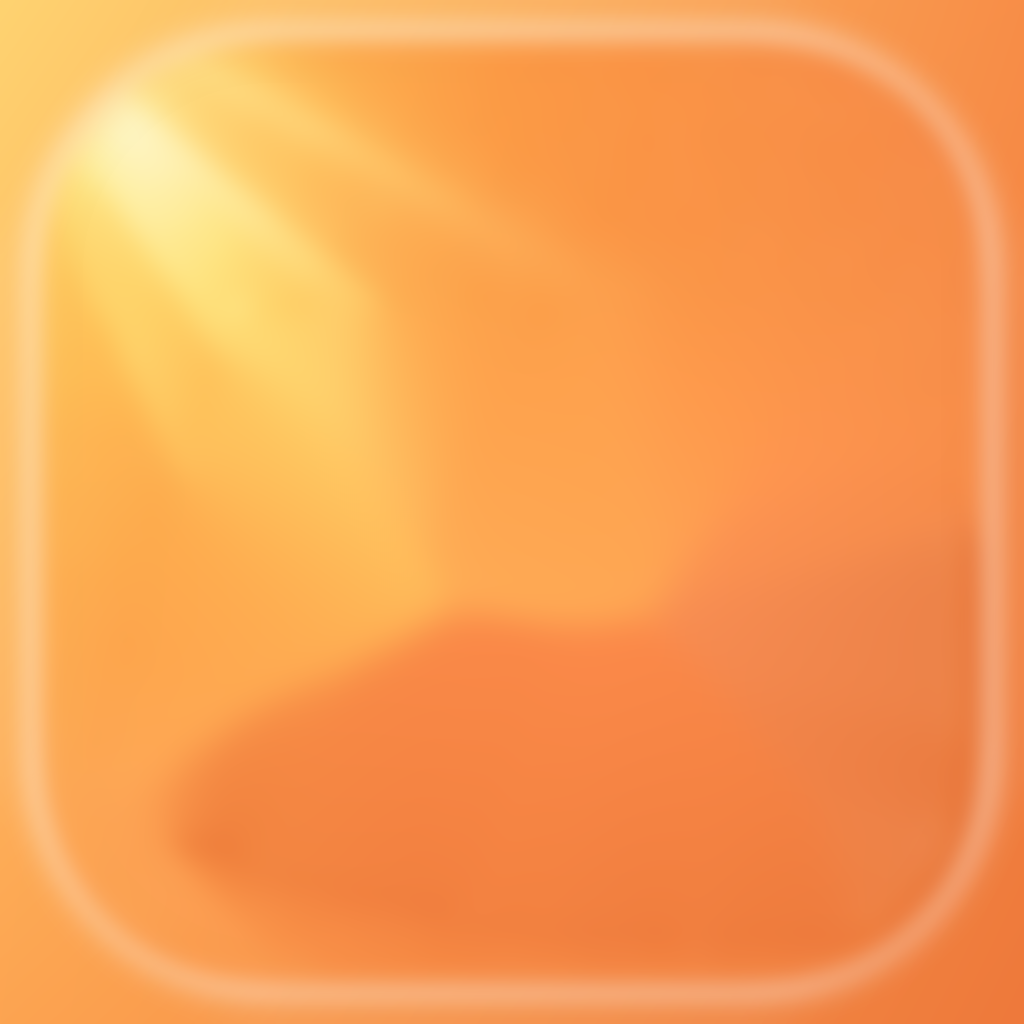
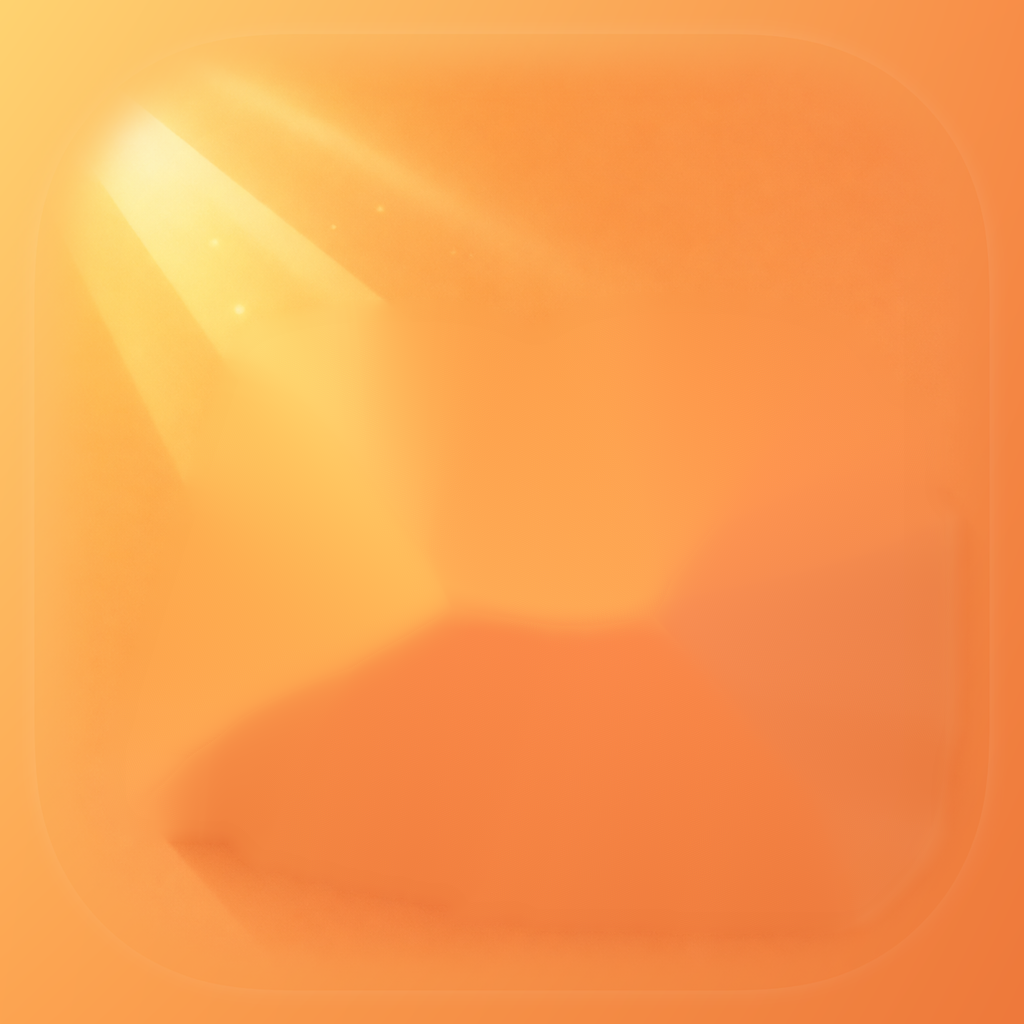
fix: 恢复启动图标原始光束细节

Changed region(s): [[0.0, 0.0, 1.0, 1.0]]

diff --git a/app/tests/release-integrity.test.ts b/app/tests/release-integrity.test.ts
@@ -139,4 +139,26 @@ describe('Android 启动图标', () => {
       expect(foreground.alpha(Math.floor(foreground.width / 2), Math.floor(foreground.height / 2))).toBeGreaterThan(247);
     }
   });
+
+  it('高分辨率背景保留左上角光束和光点细节', () => {
+    const background = decodePng(
+      readFileSync(
+        new URL('../android/app/src/main/res/mipmap-xxxhdpi/ic_launcher_background.png', import.meta.url),
+      ),
+    );
+    const luminance = (x: number, y: number) => {
+      const [red, green, blue] = background.rgb(x, y);
+      return red * 0.299 + green * 0.587 + blue * 0.114;
+    };
+    let contrast = 0;
+    let comparisons = 0;
+    for (let y = 80; y < 180; y += 1) {
+      for (let x = 80; x < 180; x += 1) {
+        contrast += Math.abs(luminance(x, y) - luminance(x + 1, y));
+        contrast += Math.abs(luminance(x, y) - luminance(x, y + 1));
+        comparisons += 2;
+      }
+    }
+    expect(contrast / comparisons).toBeGreaterThan(0.5);
+  });
 });

diff --git a/CHANGELOG.md b/CHANGELOG.md
@@ -12,15 +12,15 @@
 
 ### Android 图标与打包
 
-- 修复 Android 自适应启动图标：拆分为无白边的黄橙背景与透明书本前景，前景保留 18dp 缩进；普通、圆形与 Squircle 入口均完整显示书本和书签，也不会露出外围白圈。
+- 修复 Android 自适应启动图标：拆分为无白边的黄橙背景与透明书本前景，前景保留 18dp 缩进；普通、圆形与 Squircle 入口均完整显示书本和书签，也不会露出外围白圈。背景保留原图左上角的清晰光束和光点，不再对整张背景做模糊处理。
 - 版本升级为 1.5.1（Android versionCode 10501）；使用 JDK 21 完成 Capacitor 同步、Gradle 原生测试和 release 构建。
 
 ### 可靠性验证
 
-- 205 项单元测试与 25 个浏览器套件通过；全页面横向溢出、操作区及网页版提醒跳转覆盖 360/390/430px 与桌面宽度。
+- 206 项单元测试与 25 个浏览器套件通过；全页面横向溢出、操作区及网页版提醒跳转覆盖 360/390/430px 与桌面宽度。
 - 用 10,000 笔虚构账单实际验证搜索、首屏 100 笔分页与整批改分类；本机 Chromium 最近一轮耗时分别为 1.91 秒和 8.07 秒，结果完整且无横向溢出。
 - 微信、支付宝导入补测制表符分隔、带逗号和换行的引号字段、UTF-16LE 旧表头、Excel 数值日期；退款、中性和失败交易仍默认不导入。
-- APK 内 20 个网页文件与生产构建逐字节一致，原发布证书签名及 SHA-256 校验通过。当前没有连接 Android 设备，覆盖安装和桌面图标外观仍待真机验收；按本轮范围未验证从 1.4.4 或旧 1.5.0 备份恢复。
+- APK 内 20 个网页文件与生产构建逐字节一致，原发布证书签名及 SHA-256 校验通过。裁剪与白圈修复已通过用户真机检查；本轮恢复光束细节后的覆盖安装和桌面图标外观仍待真机验收。按本轮范围未验证从 1.4.4 或旧 1.5.0 备份恢复。
 
 ## [1.5.0] - 2026-09-09
 
